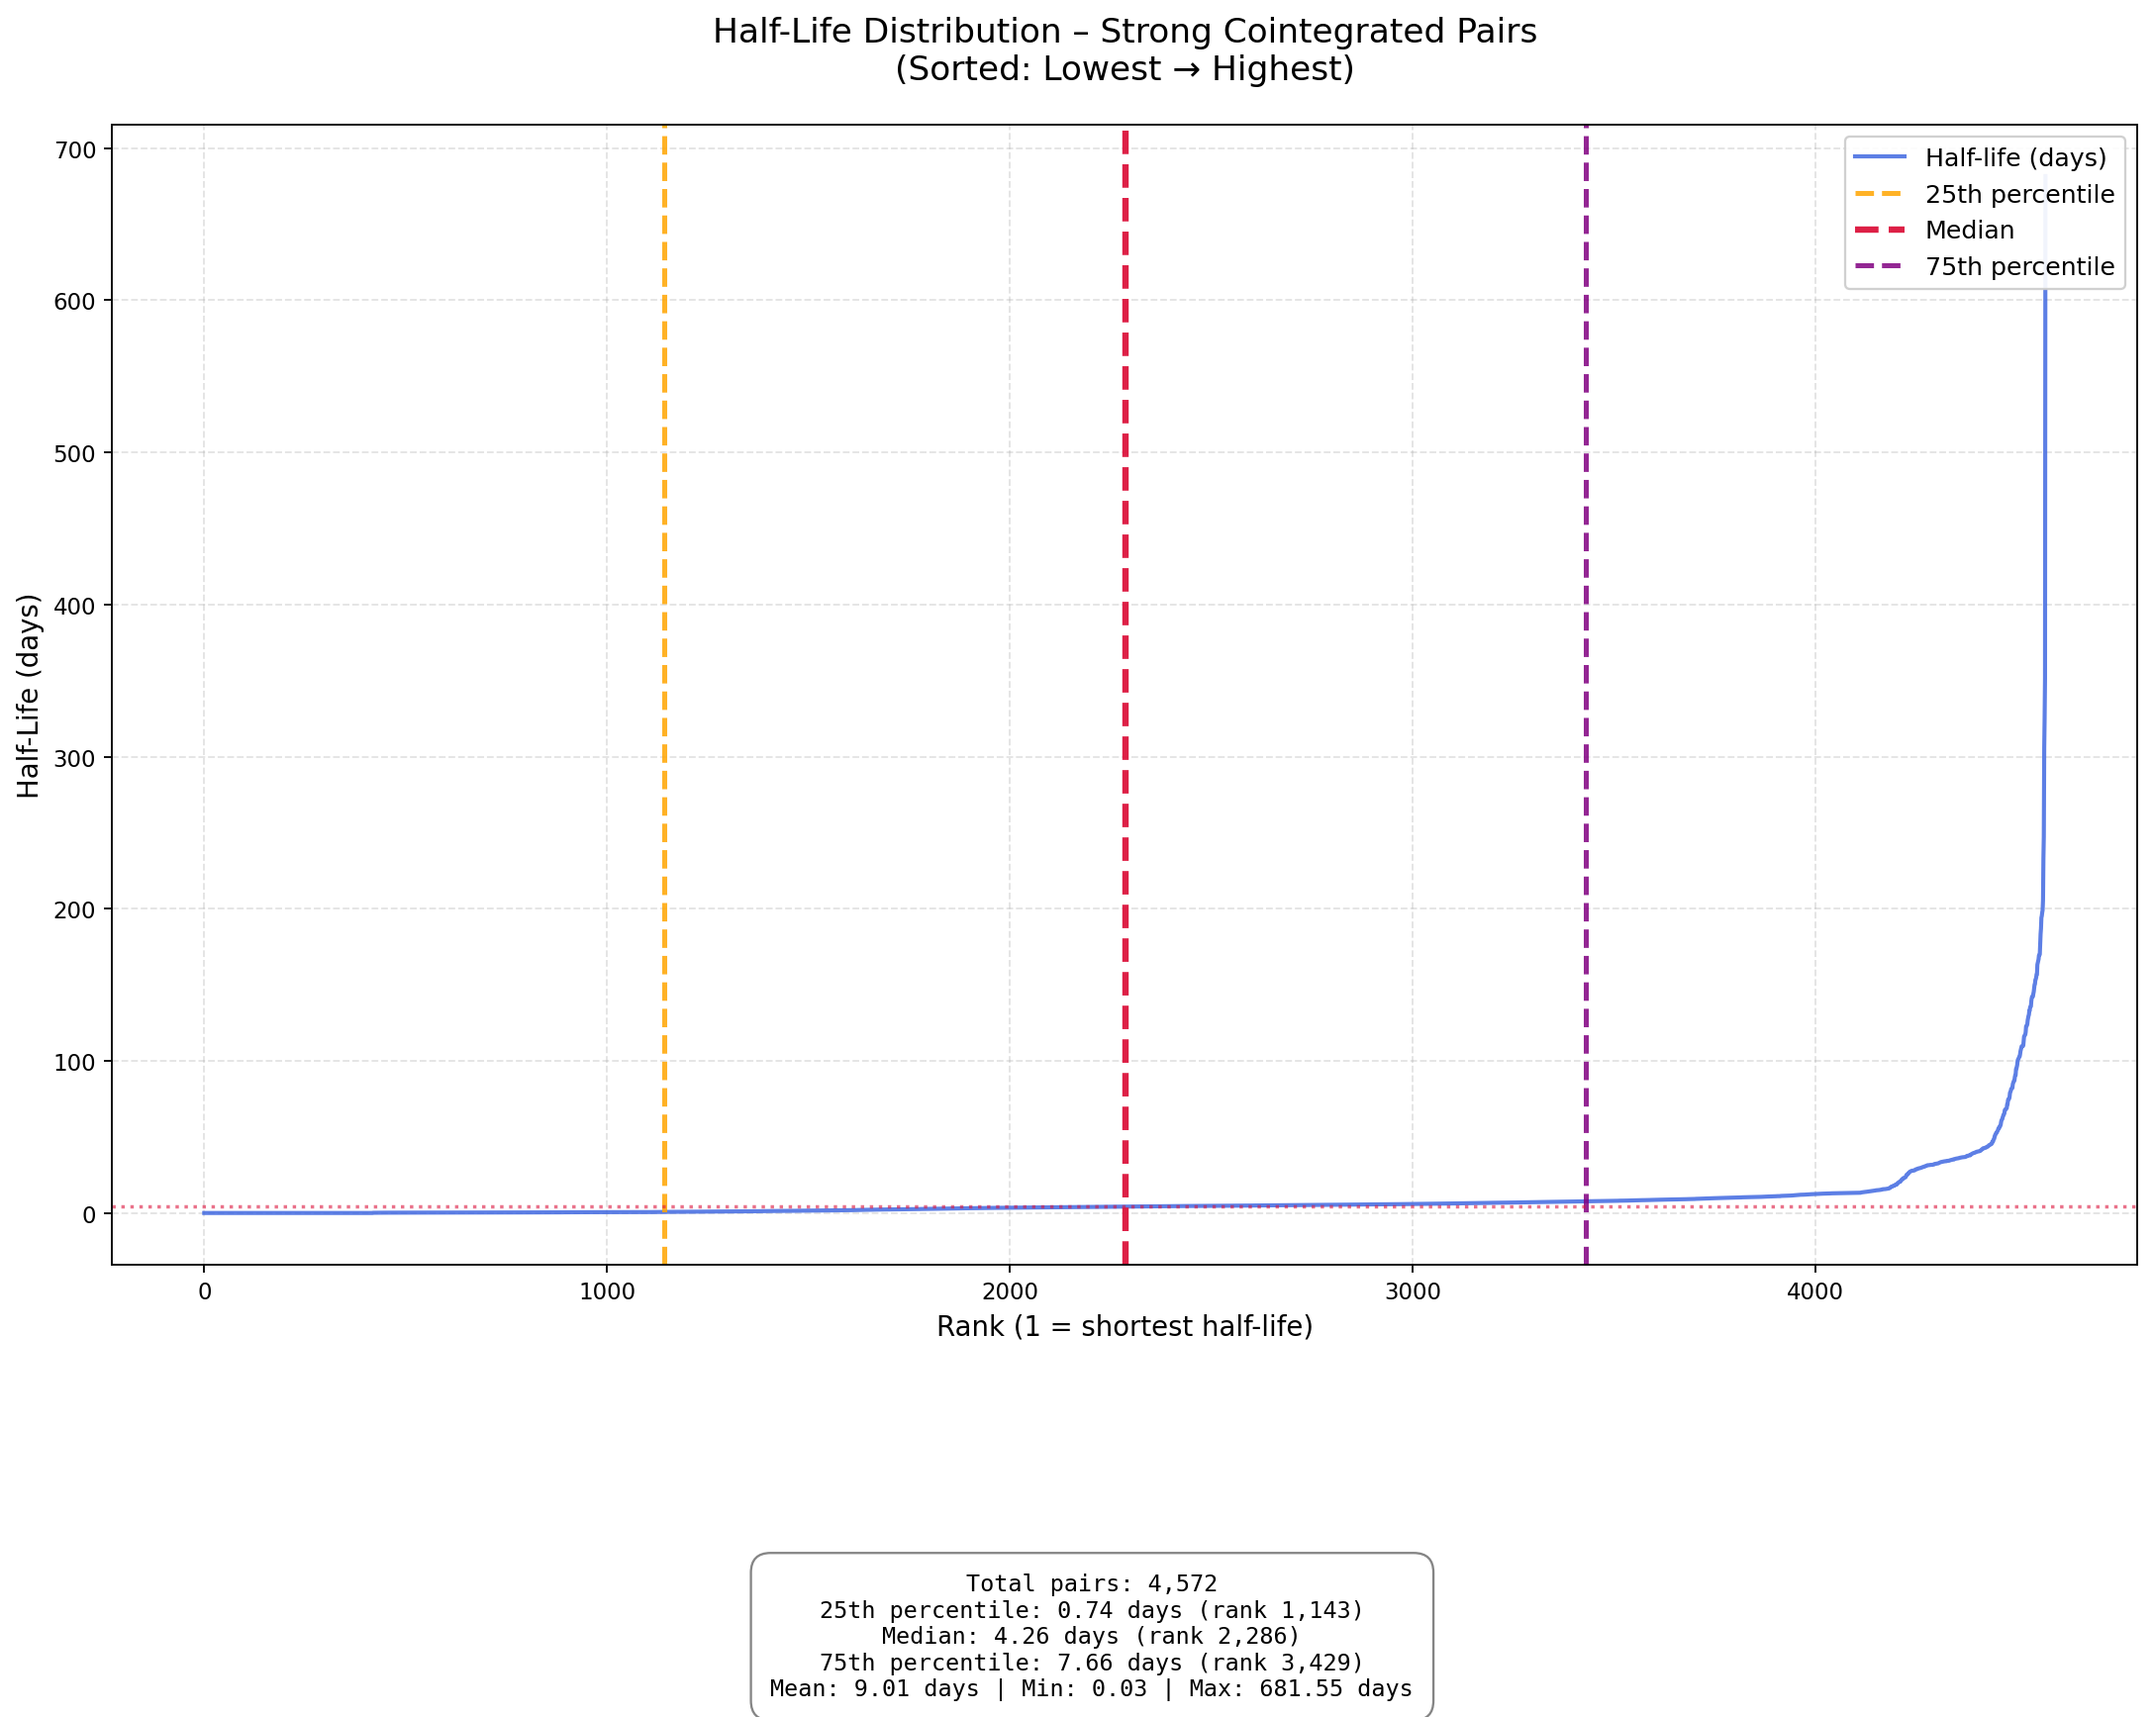
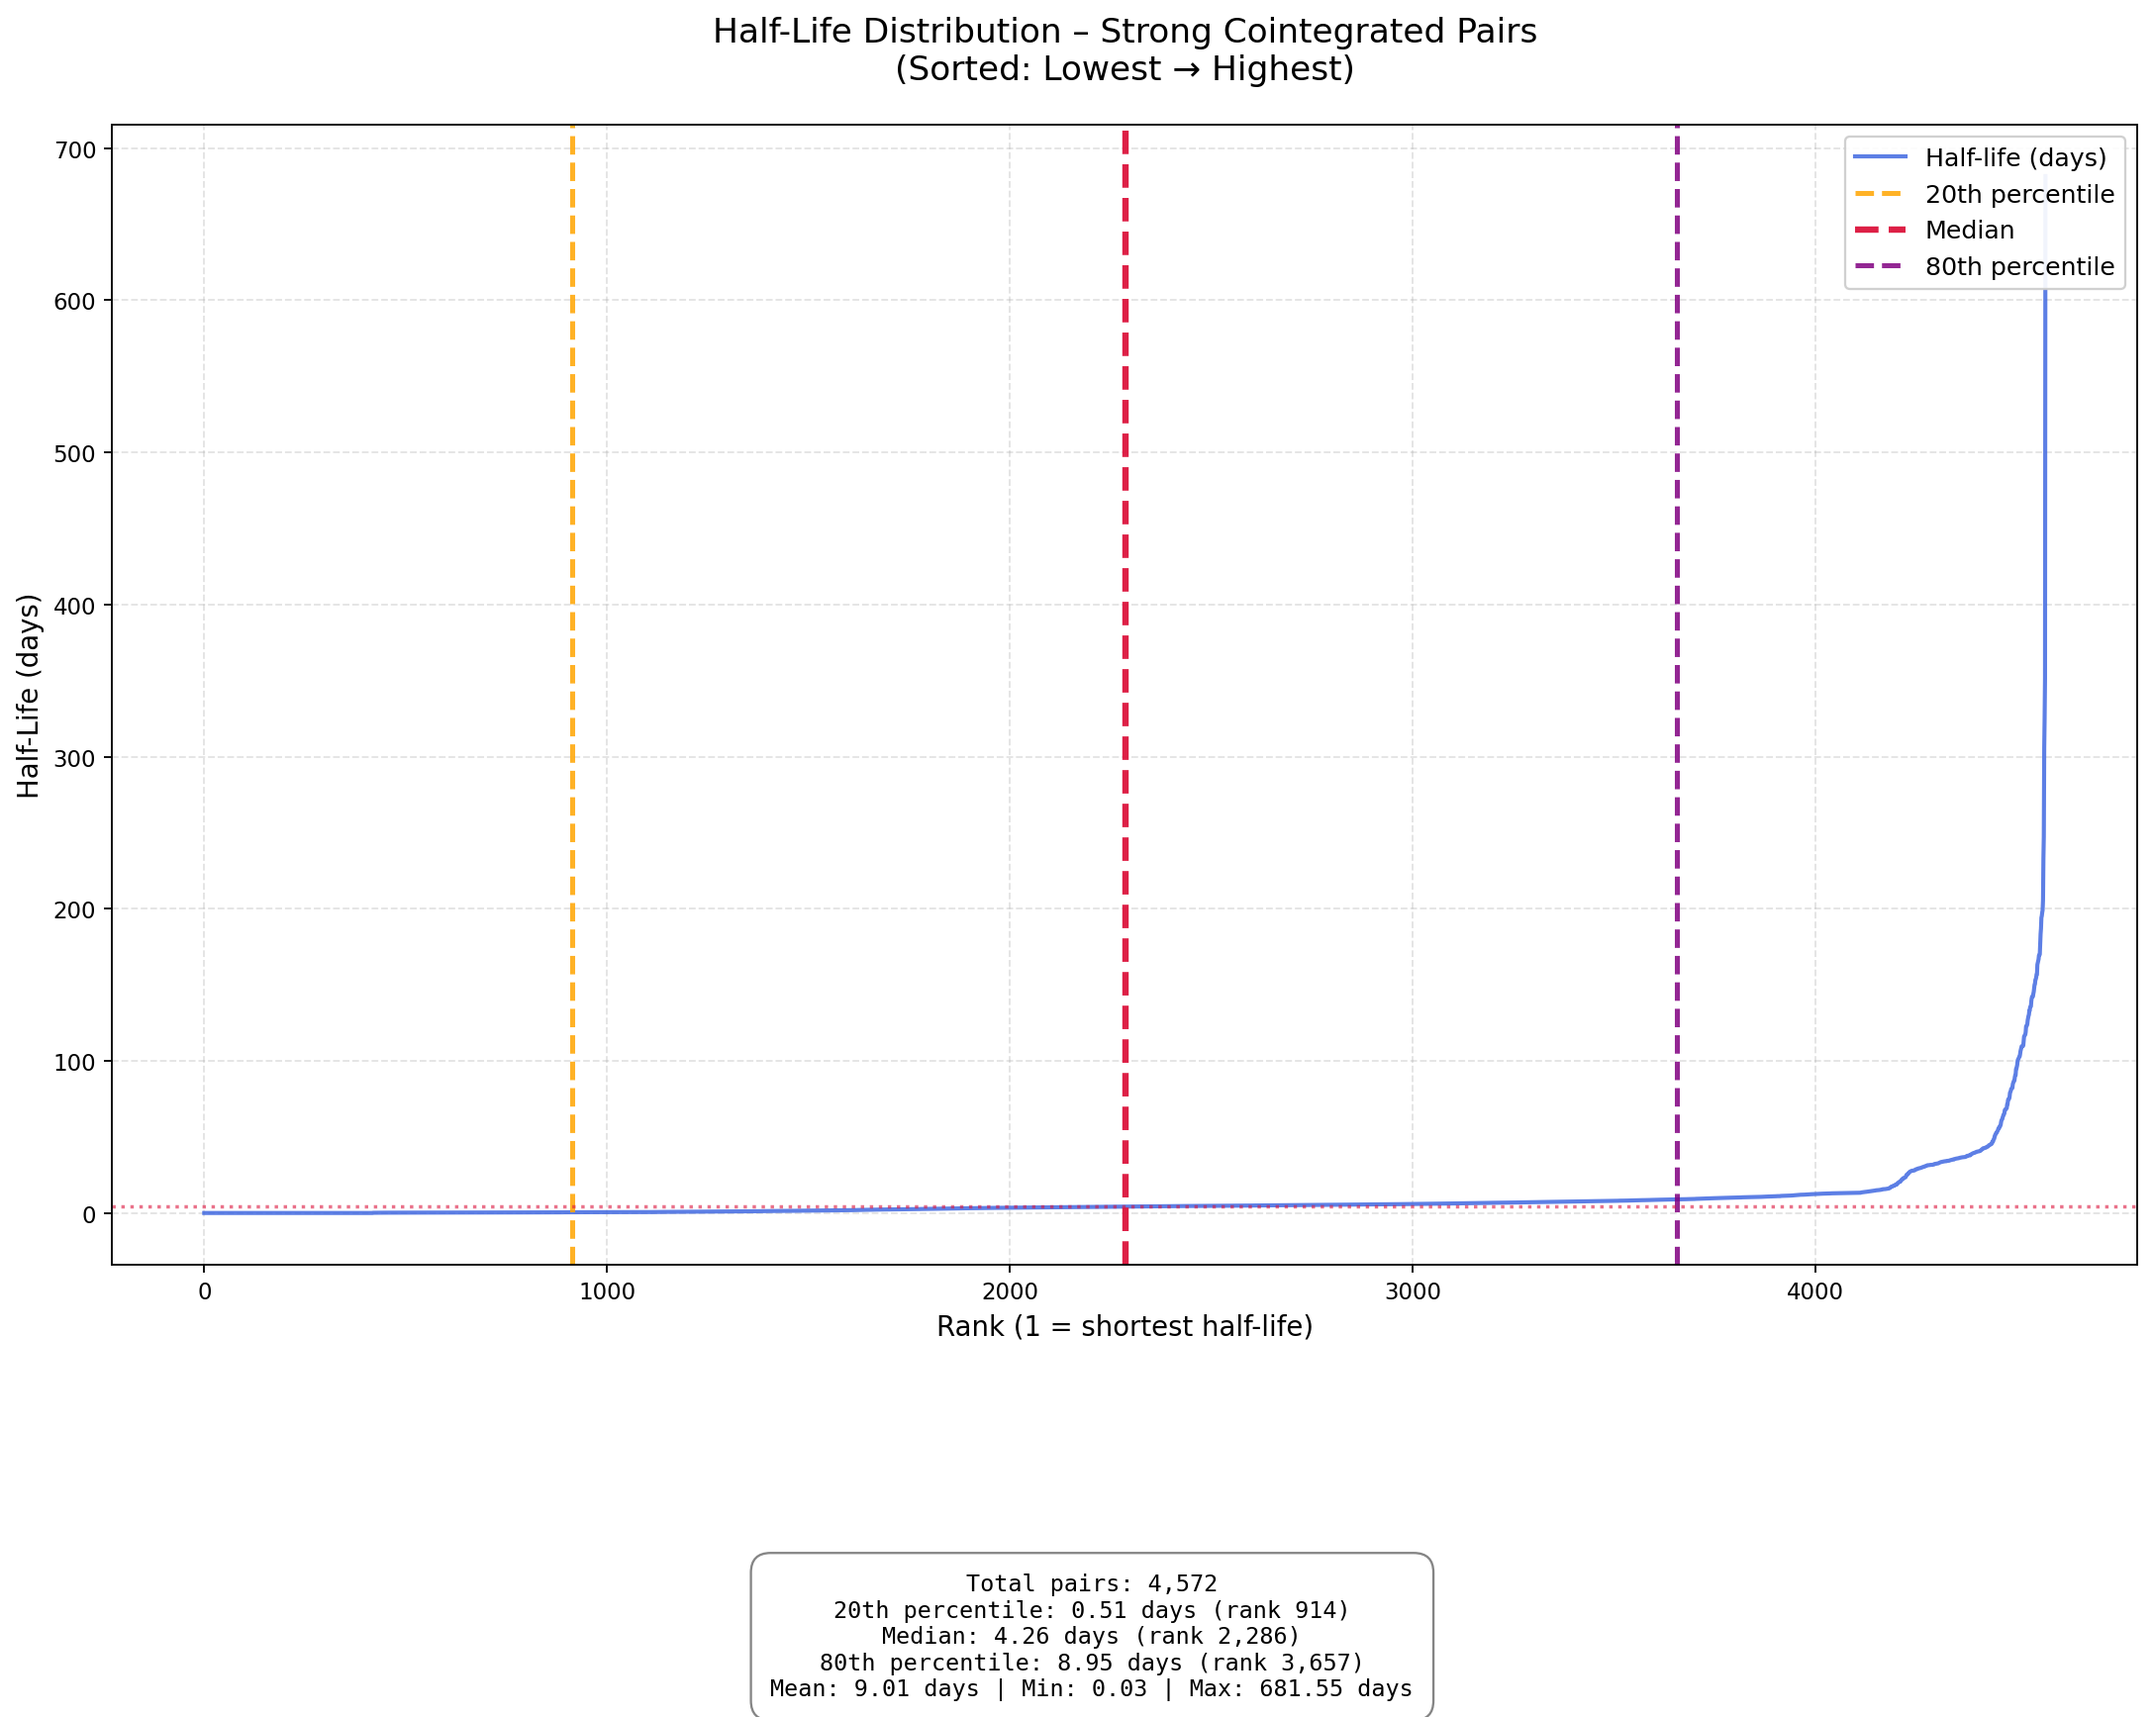
save

Changed region(s): [[0.4929, 0.9337, 0.6161, 0.9648], [0.4005, 0.9337, 0.4621, 0.9648]]

diff --git a/src/pcv2/filter_by_stability.py b/src/pcv2/filter_by_stability.py
@@ -341,8 +341,8 @@ if __name__ == "__main__":
     print("\n" + "="*80)
     print("🎨 STEP 1: Generating half-life distribution chart...")
 
-    LOWER_P = 25
-    UPPER_P = 75
+    LOWER_P = 20
+    UPPER_P = 80
 
     print(f"📍 Using percentiles: {LOWER_P}th → {UPPER_P}th for BOTH chart AND noise marking")
 
